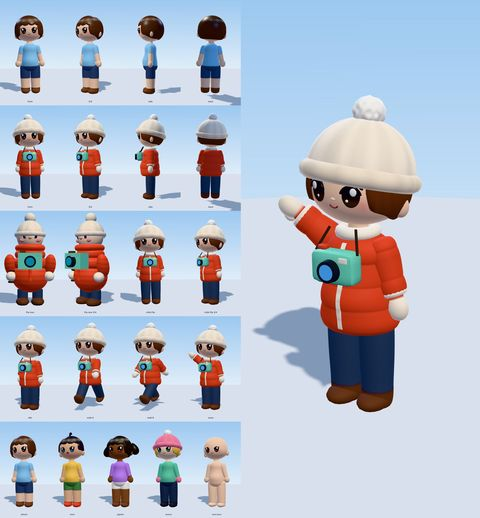
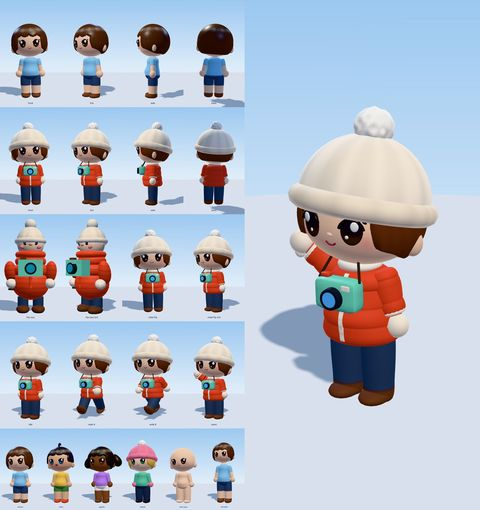
feat: chibi base proportion preset (head ~40%) as default (#311)
* feat: add reusable procedural 3D chibi base character

Code-built skinned chibi from the owner's base silhouette: 12-bone rig,
idle/walk/wave/blink, look slots (skin, eyes, mouth, hair, top, bottom,
shoes, mitts, beanie, quilted coat), a Pip variant and renders.

Task: chibi base character thread (28 Nov)

Claude-Session: https://claude.ai/code/session_01S4KwR5wBqF8i9JgJBSNtaK

* feat: chibi proportion preset as default, keep tall build

Head ~40% of height and wider than the shoulders, per the owner's
silhouette; shorter body, bigger mittens. Re-rendered evidence.

Task: chibi base character thread (28 Nov)

Claude-Session: https://claude.ai/code/session_01S4KwR5wBqF8i9JgJBSNtaK

---------

diff --git a/prototypes/chibi-base/chibi.js b/prototypes/chibi-base/chibi.js
@@ -21,7 +21,11 @@ export const DEFAULT_LOOK = {
   mitts: null, // colour, or null for bare hands
   hat: null, // { style: 'beanie', color, cuff, pom }
   coat: null, // { color, trim, quilt }
+  build: 'chibi', // 'chibi' (the owner's silhouette: head ~40% of height, wider than the shoulders) | 'tall'
 };
+
+/** Proportion presets: body height scale, head scale, mitten scale. */
+export const BUILDS = { chibi: { body: 0.8, head: 1.25, hand: 1.22 }, tall: { body: 1, head: 1, hand: 1 } };
 
 // bind pose (mesh space, feet at y 0); arms hang a little outward
 const BONES = [ // name, parent, x, y, z
@@ -88,7 +92,7 @@ const ao = (n, k = 0.22) => 1 - k + k * sat(n.y * 0.5 + 0.65);
  * Merges skinned parts into one geometry (position, normal, color, skinIndex, skinWeight) in mesh space using the
  * bones' bind matrices.
  */
-function mergeSkinned(parts, bind) {
+function mergeSkinned(parts, bind, sy = 1) {
   let nv = 0, ni = 0;
   for (const p of parts) { nv += p.geo.attributes.position.count; ni += icount(p.geo); }
   const pos = new Float32Array(nv * 3), nor = new Float32Array(nv * 3), col = new Float32Array(nv * 3), si = new Uint16Array(nv * 4), sw = new Float32Array(nv * 4), idx = new Uint32Array(ni);
@@ -99,8 +103,9 @@ function mergeSkinned(parts, bind) {
     for (let i = 0; i < P.count; i++) {
       v.fromBufferAttribute(P, i); n.fromBufferAttribute(N, i);
       const c = p.color(v, n); col.set([c.r, c.g, c.b], (vo + i) * 3);
-      w.copy(v).applyMatrix4(M); pos.set([w.x, w.y, w.z], (vo + i) * 3);
-      const ww = p.weights(v, w); for (let k = 0; k < ww.length; k++) { si[(vo + i) * 4 + k] = ww[k][0]; sw[(vo + i) * 4 + k] = ww[k][1]; }
+      const ww = p.weights(v);
+      w.copy(v); w.y *= sy; w.applyMatrix4(M); pos.set([w.x, w.y, w.z], (vo + i) * 3); // shorter builds squash the body
+      n.y /= sy; for (let k = 0; k < ww.length; k++) { si[(vo + i) * 4 + k] = ww[k][0]; sw[(vo + i) * 4 + k] = ww[k][1]; }
       n.applyMatrix3(nm).normalize(); nor.set([n.x, n.y, n.z], (vo + i) * 3);
     }
     for (let i = 0; i < icount(g); i++) idx[io + i] = (g.index ? g.index.getX(i) : i) + vo;
@@ -286,7 +291,8 @@ export function buildChibi(look = {}) {
   const L = mergeLook(look), mats = chibiMaterials();
   const group = new THREE.Group();
   const bones = {}, list = [];
-  for (const [name, parent, x, y, z] of BONES) { const b = new THREE.Bone(); b.name = name; b.position.set(x, y, z); list.push(b); bones[name] = b; if (parent >= 0) list[parent].add(b); }
+  const PR = BUILDS[L.build] || BUILDS.chibi;
+  for (const [name, parent, x, y, z] of BONES) { const b = new THREE.Bone(); b.name = name; b.position.set(x, y * PR.body, z); list.push(b); bones[name] = b; if (parent >= 0) list[parent].add(b); }
   bones.armL.rotation.z = ARM_REST; bones.armR.rotation.z = -ARM_REST;
   list[0].updateMatrixWorld(true);
   const bind = list.map((b) => b.matrixWorld.clone());
@@ -326,7 +332,7 @@ export function buildChibi(look = {}) {
       return c.clone().multiplyScalar(ao(n));
     }));
   }
-  const geo = mergeSkinned(parts, bind);
+  const geo = mergeSkinned(parts, bind, PR.body);
   const mesh = new THREE.SkinnedMesh(geo, mats.body); mesh.castShadow = true; mesh.frustumCulled = false;
   mesh.add(list[0]);
   const skeleton = new THREE.Skeleton(list); mesh.bind(skeleton);
@@ -352,7 +358,7 @@ export function buildChibi(look = {}) {
       cparts.push(part(sl, iArm[s], (v) => { const t = sstep(0.05, -0.06, v.y); return [[3, 1 - t], [iArm[s], t]]; }, (v, n) => quilt(v.y * 0.8, cc).multiplyScalar(ao(n, 0.16))));
       cparts.push(part(new THREE.TorusGeometry(0.062, 0.022, 8, 18).rotateX(Math.PI / 2).translate(0, -0.265, 0), iArm[s], () => [[iArm[s], 1]], (v, n) => trim.clone().multiplyScalar(ao(n, 0.15)))); // cuff
     }
-    const cm = new THREE.SkinnedMesh(mergeSkinned(cparts, bind), mats.body); cm.castShadow = true; cm.frustumCulled = false;
+    const cm = new THREE.SkinnedMesh(mergeSkinned(cparts, bind, PR.body), mats.body); cm.castShadow = true; cm.frustumCulled = false;
     cm.bind(skeleton, mesh.bindMatrix); group.add(cm); meshes.push(cm);
   }
 
@@ -368,6 +374,8 @@ export function buildChibi(look = {}) {
     pom = new THREE.Group(); pom.position.copy(hp.pomAt); bones.head.add(pom);
     const pm = new THREE.Mesh(hp.pomG, mats.body); pm.castShadow = true; pom.add(pm); meshes.push(pm);
   }
+  // bigger head and mittens: scaled on their bones after binding, so the face, hair and hat all follow
+  bones.head.scale.setScalar(PR.head); bones.handL.scale.setScalar(PR.hand); bones.handR.scale.setScalar(PR.hand);
   const tris = meshes.reduce((a, m) => a + m.geometry.index.count / 3, 0);
   const rest = {}; for (const b of list) rest[b.name] = { p: b.position.clone(), r: b.rotation.clone() };
   return { group, mesh, skeleton, bones, head, eyes, pom, rest, look: L, pomV: 0, pomY: 0, stats: { draws: meshes.length, tris, bones: list.length } };

diff --git a/prototypes/chibi-base/demo.js b/prototypes/chibi-base/demo.js
@@ -53,6 +53,7 @@ const LOOKS = [
   { skin: '#8d5a3c', blush: '#d06a5a', hair: { style: 'pigtails', color: '#1e1410' }, eyes: { color: '#6a3a1a', size: 1.12 }, mouth: 'cat', top: { color: '#c58cff', sleeve: 0.9 }, bottom: { color: '#ffffff', length: 0.25 }, shoes: '#7a4a32', mitts: null },
   { skin: '#ffe2cc', hair: { style: 'bob', color: '#f2c86a' }, eyes: { color: '#3a8a5a', size: 0.95 }, top: { color: '#6ad0b0', sleeve: 1 }, bottom: { color: '#2f3a58', length: 0.85 }, shoes: '#2a2a35', mitts: '#ff8fb0', hat: { style: 'beanie', color: '#ff8fb0', pom: '#ffffff' } },
   { skin: '#ffd9bf', hair: { style: 'none' }, top: null, bottom: null, shoes: '#ffd9bf', mitts: null },
+  { build: 'tall' },
 ];
 
 const cells = []; // { scene, cam, x, y, w, h, tick }
@@ -63,7 +64,7 @@ function cell(x, y, w, h, chars, view, label) {
   cam.position.set(view.pos[0], view.pos[1], view.pos[2]); cam.lookAt(view.look[0], view.look[1], view.look[2]);
   cells.push({ sc, cam, x, y, w, h });
 }
-const orbit = (a, d = 5.2, y = 1.05, ty = 0.92) => ({ pos: [Math.sin(a) * d, y, Math.cos(a) * d], look: [0, ty, 0] });
+const orbit = (a, d = 5.2, y = 1.05, ty = 0.98) => ({ pos: [Math.sin(a) * d, y, Math.cos(a) * d], look: [0, ty, 0] });
 const anims = [];
 const chibi = (look, st = {}, extra) => { const c = buildChibi(look); if (extra) extra(c); anims.push([c, st]); return c; };
 
@@ -83,7 +84,7 @@ if (shot === 'turn' || shot === 'pip') {
   });
 } else if (shot === 'looks') {
   const w = W / LOOKS.length;
-  LOOKS.forEach((l, i) => { const c = chibi(l, {}); cell(i * w, 0, w, H, [[c.group, 0]], orbit(0.35), ['default', 'short', 'pigtails', 'beanie', 'bare base'][i]); });
+  LOOKS.forEach((l, i) => { const c = chibi(l, {}); cell(i * w, 0, w, H, [[c.group, 0]], orbit(0.35), ['default', 'short', 'pigtails', 'beanie', 'bare base', 'tall build'][i]); });
 } else if (shot === 'anim') {
   const w = W / 4, sts = [{ t: 0 }, { walk: 1, t: 0.17 }, { walk: 1, t: 0.52 }, { wave: 1, t: 1.1 }];
   sts.forEach((s, i) => { const c = chibi(PIP, s, pipCamera); c.blinkOff = 1; cell(i * w, 0, w, H, [[c.group, 0]], orbit(0.5), ['idle', 'walk A', 'walk B', 'wave'][i]); });

diff --git a/prototypes/chibi-base/capture.js b/prototypes/chibi-base/capture.js
@@ -9,7 +9,7 @@ const server = http.createServer((q, s) => {
   const f = path.join(root, decodeURIComponent(q.url.split('?')[0]));
   fs.readFile(f, (e, d) => { if (e) { s.writeHead(404); return s.end(); } s.writeHead(200, { 'content-type': types[path.extname(f)] || 'text/plain' }); s.end(d); });
 }).listen(0);
-const SHOTS = [['turn', 1600, 700], ['pip', 1600, 700], ['compare', 1600, 700], ['looks', 1750, 700], ['anim', 1600, 700], ['phone', 390, 844]];
+const SHOTS = [['turn', 1600, 700], ['pip', 1600, 700], ['compare', 1600, 700], ['looks', 2100, 700], ['anim', 1600, 700], ['phone', 390, 844]];
 (async () => {
   const browser = await chromium.launch({ args: ['--use-gl=angle', '--use-angle=swiftshader', '--enable-unsafe-swiftshader'] });
   for (const [shot, w, h] of SHOTS) {

diff --git a/prototypes/chibi-base/README.md b/prototypes/chibi-base/README.md
@@ -20,7 +20,9 @@ inside the mobile budget, with no external assets.
 - `attach(c, 'chest' | 'handR' | ..., object)`: props on bones (Pip's camera rides `chest`).
 - Look slots (`DEFAULT_LOOK`): `skin`, `blush`, `eyes {color,size}`, `mouth smile|open|cat`,
   `hair {style bob|short|pigtails|none, color}`, `top {color, sleeve 0..1}`, `bottom {color, length 0..1}`, `shoes`,
-  `mitts`, `hat {style beanie, color, cuff, pom}`, `coat {color, trim, quilt}`.
+  `mitts`, `hat {style beanie, color, cuff, pom}`, `coat {color, trim, quilt}`, `build chibi|tall`.
+- `build: 'chibi'` (default) matches the owner's silhouette: head about 40% of the height and wider than the
+  shoulders (body x0.8, head x1.25, mittens x1.22, scaled on bones). `'tall'` keeps the longer first proportions.
 
 ## Build
 - One skinned body mesh (torso, neck, arms, mitten hands with thumbs, legs, rounded feet) on 12 bones
